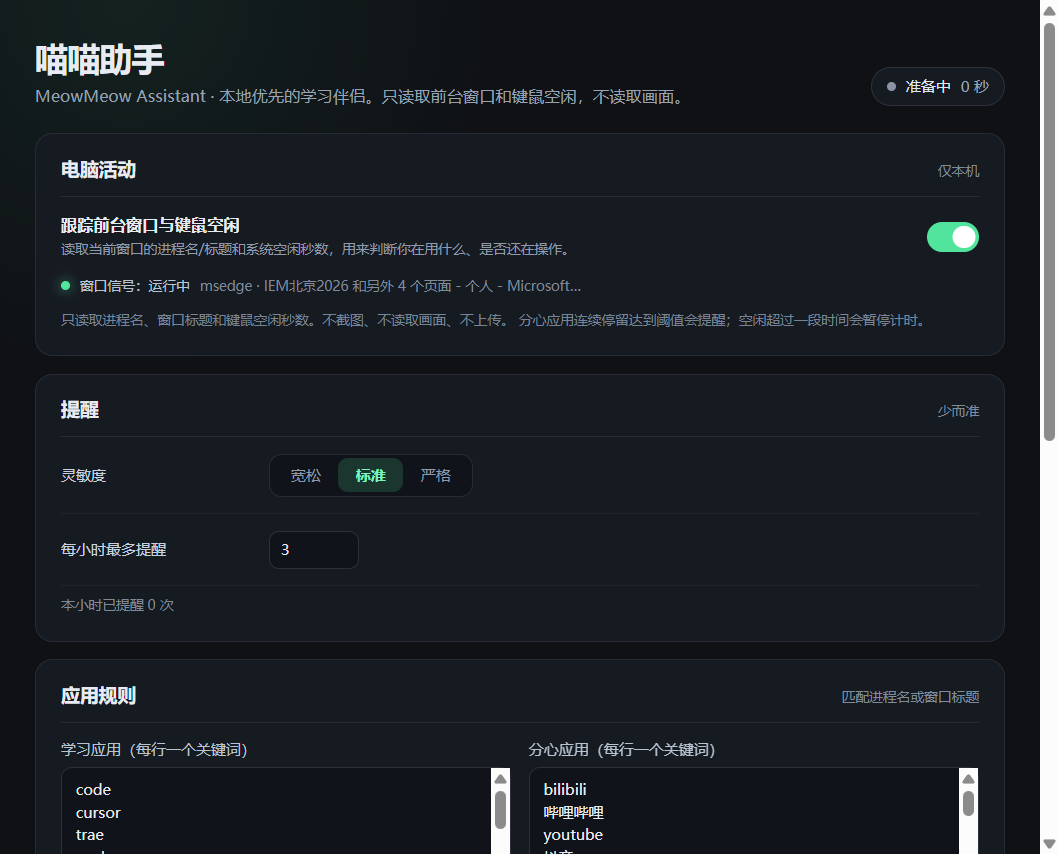
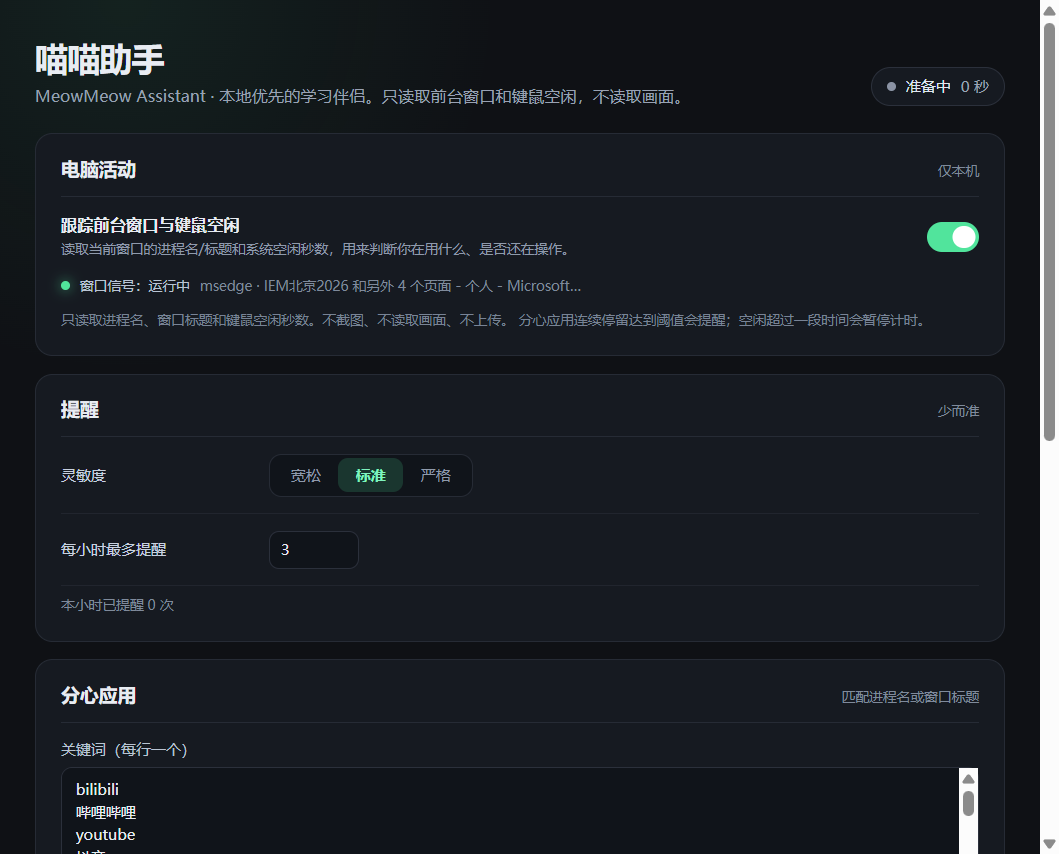
refactor: simplify app rules to a single blocked list

diff --git a/src/renderer/src/SettingsApp.tsx b/src/renderer/src/SettingsApp.tsx
@@ -178,23 +178,13 @@ export function SettingsApp() {
 
       <section className="settings-card">
         <div className="card-heading">
-          <h2>应用规则</h2>
+          <h2>分心应用</h2>
           <span className="card-hint">匹配进程名或窗口标题</span>
         </div>
 
-        <div className="textarea-grid">
+        <div className="textarea-grid single">
           <label className="textarea-field">
-            <span>学习应用（每行一个关键词）</span>
-            <textarea
-              rows={6}
-              value={draft.allowedApps.join('\n')}
-              onChange={(event) =>
-                updateDraft({ allowedApps: event.target.value.split('\n') })
-              }
-            />
-          </label>
-          <label className="textarea-field">
-            <span>分心应用（每行一个关键词）</span>
+            <span>关键词（每行一个）</span>
             <textarea
               rows={6}
               value={draft.blockedApps.join('\n')}
@@ -205,7 +195,8 @@ export function SettingsApp() {
           </label>
         </div>
         <p className="field-hint">
-          例如在浏览器里打开 B 站，进程名是 chrome，但窗口标题会命中 blocked 里的 bilibili。
+          命中这些关键词时，连续停留达到阈值会提醒；其他应用默认算作学习。
+          例如在浏览器里打开 B 站，进程名是 chrome，但窗口标题会命中 bilibili。
         </p>
       </section>
 

diff --git a/src/shared/focus/classify.ts b/src/shared/focus/classify.ts
@@ -1,4 +1,4 @@
-export type AppClassification = 'allowed' | 'blocked' | 'neutral' | 'unknown'
+export type AppClassification = 'blocked' | 'neutral' | 'unknown'
 
 function matches(haystack: string, needles: string[]): boolean {
   return needles.some((needle) => {
@@ -9,20 +9,16 @@ function matches(haystack: string, needles: string[]): boolean {
 
 /**
  * The rule layer is intentionally simple and explainable: users can see why
- * the mascot spoke. It is not a classifier and does not pretend to be one.
+ * the mascot spoke. Everything that is not blocked counts as study time.
  */
 export function classifyApp(
   appName: string | null,
   windowTitle: string | null,
-  allowedApps: string[],
   blockedApps: string[]
 ): AppClassification {
   if (!appName && !windowTitle) return 'unknown'
 
   const haystack = `${appName ?? ''} ${windowTitle ?? ''}`.toLowerCase()
-
-  // Blocked wins over allowed: a browser tab titled Bilibili is not study time.
   if (matches(haystack, blockedApps)) return 'blocked'
-  if (matches(haystack, allowedApps)) return 'allowed'
   return 'neutral'
 }

diff --git a/src/shared/focus/stateMachine.ts b/src/shared/focus/stateMachine.ts
@@ -29,7 +29,6 @@ export class FocusStateMachine {
   private goodSince: number | null = null
 
   private thresholds: FocusThresholds
-  private allowedApps: string[]
   private blockedApps: string[]
   private activityEnabled: boolean
 
@@ -37,14 +36,12 @@ export class FocusStateMachine {
     this.sessionStartedAt = now
     this.lastUpdateAt = now
     this.thresholds = thresholdsFor(settings)
-    this.allowedApps = settings.allowedApps
     this.blockedApps = settings.blockedApps
     this.activityEnabled = settings.activityTrackingEnabled
   }
 
   applySettings(settings: AppSettings): void {
     this.thresholds = thresholdsFor(settings)
-    this.allowedApps = settings.allowedApps
     this.blockedApps = settings.blockedApps
     this.activityEnabled = settings.activityTrackingEnabled
   }
@@ -139,7 +136,6 @@ export class FocusStateMachine {
     const classification = classifyApp(
       activity.appName,
       activity.windowTitle,
-      this.allowedApps,
       this.blockedApps
     )
 

diff --git a/src/main/settings.ts b/src/main/settings.ts
@@ -7,24 +7,6 @@ const DEFAULTS: AppSettings = {
   activityTrackingEnabled: true,
   reminderSensitivity: 'normal',
   maxRemindersPerHour: 3,
-  allowedApps: [
-    'code',
-    'cursor',
-    'trae',
-    'pycharm',
-    'idea',
-    'webstorm',
-    'obsidian',
-    'notion',
-    'zotero',
-    'acrobat',
-    'sumatrapdf',
-    'typora',
-    'winword',
-    'excel',
-    'powerpnt',
-    'wps'
-  ],
   blockedApps: [
     'bilibili',
     '哔哩哔哩',
@@ -87,7 +69,6 @@ export function sanitizeSettings(input: Partial<AppSettings>): AppSettings {
     activityTrackingEnabled: Boolean(merged.activityTrackingEnabled),
     reminderSensitivity: sensitivity,
     maxRemindersPerHour: maxReminders,
-    allowedApps: cleanStringList(merged.allowedApps, DEFAULTS.allowedApps),
     blockedApps: cleanStringList(merged.blockedApps, DEFAULTS.blockedApps),
     live2dModelPath:
       typeof merged.live2dModelPath === 'string' && merged.live2dModelPath.trim()

diff --git a/src/shared/focus/types.ts b/src/shared/focus/types.ts
@@ -60,7 +60,6 @@ export interface AppSettings {
   activityTrackingEnabled: boolean
   reminderSensitivity: 'relaxed' | 'normal' | 'strict'
   maxRemindersPerHour: number
-  allowedApps: string[]
   blockedApps: string[]
   live2dModelPath: string | null
   avatarScale: number

diff --git a/src/shared/focus/stateMachine.test.ts b/src/shared/focus/stateMachine.test.ts
@@ -6,7 +6,6 @@ const settings: AppSettings = {
   activityTrackingEnabled: true,
   reminderSensitivity: 'normal',
   maxRemindersPerHour: 3,
-  allowedApps: ['code', 'obsidian'],
   blockedApps: ['bilibili', 'steam'],
   live2dModelPath: null,
   avatarScale: 1,

diff --git a/src/renderer/src/styles.css b/src/renderer/src/styles.css
@@ -681,6 +681,10 @@ input[type="checkbox"]:focus-visible {
   padding-top: 14px;
 }
 
+.textarea-grid.single {
+  grid-template-columns: 1fr;
+}
+
 .textarea-field,
 .text-field {
   display: flex;

diff --git a/README.md b/README.md
@@ -12,11 +12,11 @@
 
 - 透明、无边框、置顶、鼠标穿透的桌面窗口；悬停到桌宠或气泡时才接收点击。
 - 托盘菜单：显示/隐藏、暂停检测、开始新会话、设置、退出。
-- 前台窗口 + 键鼠空闲：访问学习应用时是正向信号，命中分心关键词时是负向信号。
+- 前台窗口 + 键鼠空闲：非分心应用会计入专注，命中分心关键词时是负向信号。
 - 纯 TypeScript 状态机：`unknown / focused / distracted / away / paused`，带去抖和阈值。
 - 提醒预算：每小时上限 + 10 分钟冷却 + “再 5 分钟”/“今天到这”选项。
 - 规则气泡：说明原因（例如停在 B 站），不抢焦点、不弹系统通知。
-- 设置页：灵敏度、提醒上限、应用白/黑名单、桌宠大小、Live2D 模型路径。
+- 设置页：灵敏度、提醒上限、分心应用名单、桌宠大小、Live2D 模型路径。
 - 隐私默认：只读取进程名/标题和键鼠空闲秒数；不截图、不读取画面、不上传。
 
 ## 快速开始
@@ -51,8 +51,10 @@ npm install
 
 | 信号 | 来源 | 用途 |
 |---|---|---|
-| 前台进程名 + 窗口标题 | Windows 前台窗口 | 识别学习应用 / 分心应用 |
+| 前台进程名 + 窗口标题 | Windows 前台窗口 | 识别分心应用 |
 | 键鼠空闲秒数 | `powerMonitor` | 判断是否离开 |
+
+默认把 B 站、YouTube、Steam 等常见分心应用放进名单；其他应用默认算作学习。
 
 状态机规则（`normal` 灵敏度）：
 
